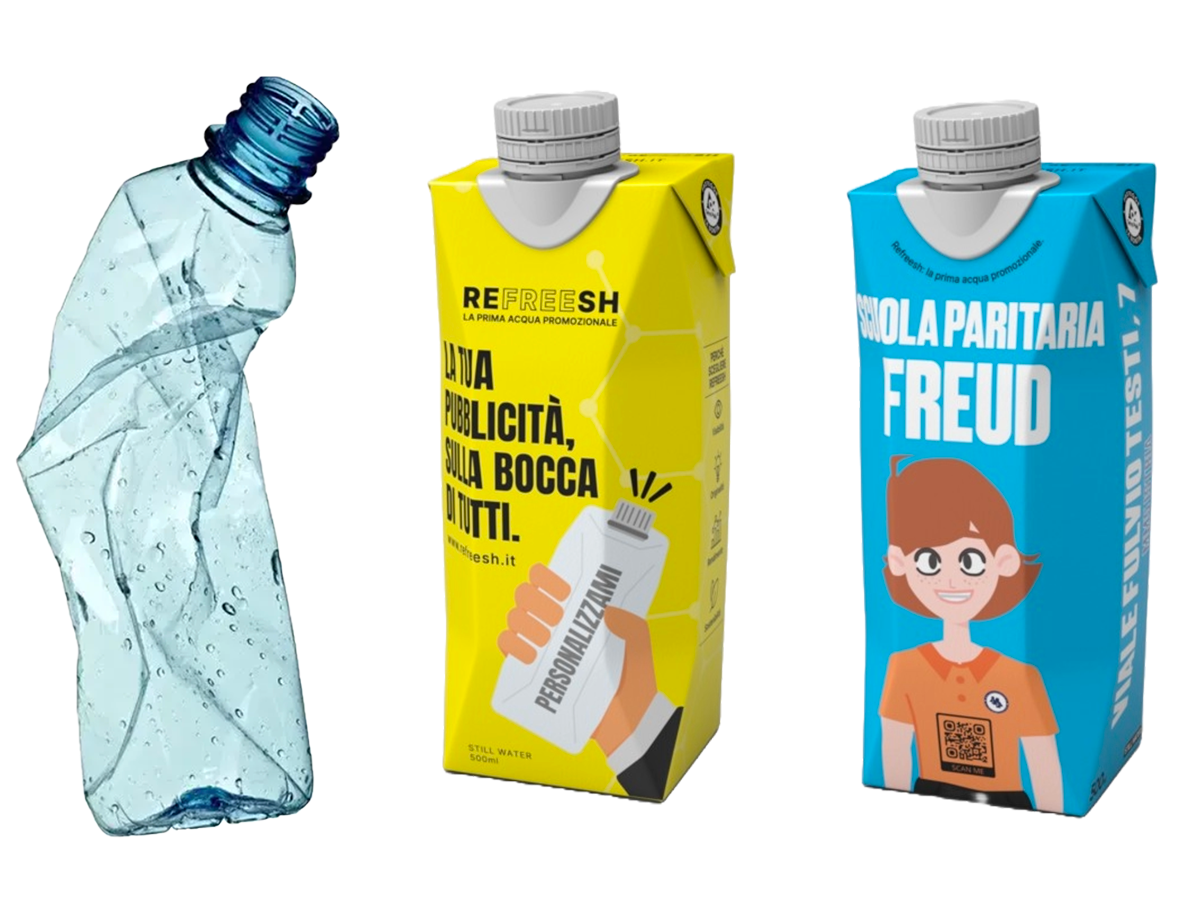
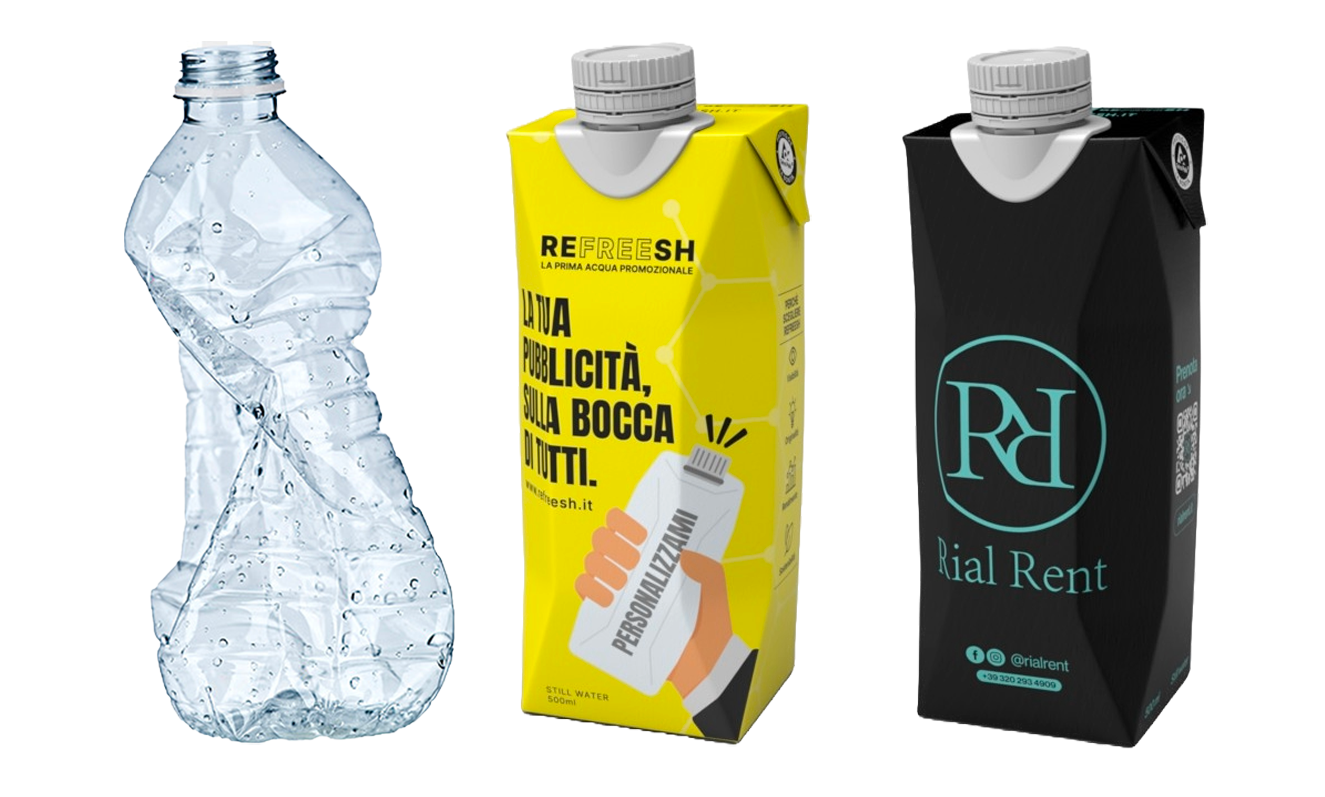
modified images and texts

diff --git a/src/components/Description.tsx b/src/components/Description.tsx
@@ -1,6 +1,6 @@
 import React from 'react'
 import Image from 'next/image'
-import bottRial from '../../public/bottRial.png'
+import bottGial from '../../public/botGial.png'
 import noPlastica from '../../public/noPlastica.png'
 
 export default function Description() {
@@ -8,17 +8,16 @@ export default function Description() {
     <section id='chisiamo' className='flex flex-col items-center justify-center'>
         <div className='flex lg:mt-44 px-20 justify-center'>
             <div className='flex gap-14 lg:gap-28 items-center flex-col lg:flex-row'>
-                <Image draggable="false" src={bottRial} height={500} width={500} alt='bottle' className='h-[30rem] md:h-[40rem] object-cover' />
+                <Image draggable="false" src={bottGial} height={500} width={500} alt='bottle' className='h-[30rem] md:h-[40rem] object-cover' />
                 <div>
-                    <h3 className='text-2xl text-center lg:text-start md:text-3xl xl:text-5xl font-semibold'>Chi Siamo</h3>
-                    <p className='max-w-xl mt-9 text-center lg:text-start text-gray-500'>REFREESH è un&apos;innovativa start-up che si occupa di promuovere uno stile di vita sano e sostenibile, offrendo alle aziende la possibilità di promuovere i propri marchi e prodotti su bottiglie di acqua di cartone. La chiave distintiva di questo progetto è che le bottiglie stesse sono finanziate dalla pubblicità delle aziende, il che consente di distribuirle gratuitamente ai consumatori.</p>
+                    <p className='max-w-xl mt-9 text-lg text-center lg:text-start text-gray-500'>Refreesh è la prima start-up in Italia di Acqua Promozionale, offre alle aziende la possibilità di promuovere i propri marchi e prodotti su bottiglie di acqua di cartone. La chiave distintiva di questo progetto è che le bottiglie stesse sono finanziate dalla pubblicità delle aziende, il che consente di distribuirle gratuitamente ai consumatori</p>
                 </div>
             </div>
         </div>
         <div className='mt-28 px-20 flex flex-col lg:flex-row gap-28 xl:gap-72 items-center'>
             <div>
-                <h3 className='text-2xl text-center lg:text-start md:text-3xl xl:text-5xl font-semibold'>Non usiamo bottiglie di plastica</h3>
-                <p className='max-w-xl mt-9 text-center lg:text-start text-gray-500'>REFREESH non utilizza bottiglie di plastica per promuovere la sostenibilità ambientale. Le bottiglie di cartone, sostenibili e riciclabili, riducono l&apos;impatto ambientale, promuovendo l&apos;uso responsabile delle risorse, risparmiando energia nella produzione e migliorando l&apos;immagine aziendale attraverso la responsabilità sociale.</p>
+                <h3 className='text-2xl text-center lg:text-start md:text-3xl xl:text-5xl font-semibold'>Niente plastica, solo cartone</h3>
+                <p className='max-w-xl mt-9 text-center lg:text-start text-gray-500'>REFREESH utilizza esclusivamente bottiglie di cartone, sostenibili e riciclabili, riducendo così l'impatto ambientale, rendendo sostenibile la pubblicità e migliorando l'immagine delle aziende partner</p>
             </div>
             <Image draggable="false" src={noPlastica} height={500} width={500} alt='no plastica' className='scale-125' />
         </div>
